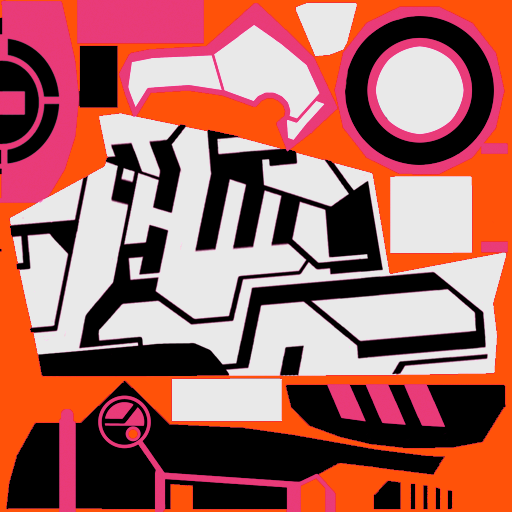
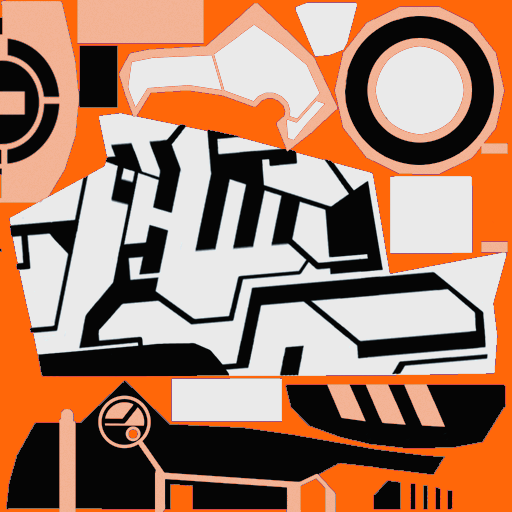
orange + red

diff --git a/templates/index.html b/templates/index.html
@@ -11,16 +11,12 @@
     		// stolen from three.js demo
 			var container;
 
-			var camera, scene, renderer, model;
+			var camera, scene, renderer, model, manager;
 
-			var mouseX = 0, mouseY = 0, loaded = false;
+			var mouseX = 0, mouseY = 0, loaded = false, color = 'blu';
 
 			var windowHalfX = window.innerWidth / 2;
 			var windowHalfY = window.innerHeight / 2;
-
-
-			init();
-			animate();
 
 
 			function init() {
@@ -44,7 +40,7 @@
 
 				// texture
 
-				var manager = new THREE.LoadingManager();
+				manager = new THREE.LoadingManager();
 				manager.onProgress = function ( item, loaded, total ) {
 
 					console.log( item, loaded, total );
@@ -53,34 +49,41 @@
 
 				var texture = new THREE.Texture();
 
-				var onProgress = function ( xhr ) {
-					if ( xhr.lengthComputable ) {
-						var percentComplete = xhr.loaded / xhr.total * 100;
-						console.log( Math.round(percentComplete, 2) + '% downloaded' );
-					}
-				};
 
-				var onError = function ( xhr ) {
-				};
+				// var loader = new THREE.ImageLoader( manager );
+				// loader.load( 'static/model/SLC_mat1_d.tga', function ( image ) {
 
+				// 	texture.image = image;
+				// 	texture.needsUpdate = true;
 
-				var loader = new THREE.ImageLoader( manager );
-				loader.load( 'static/model/SLC_mat1_d.tga', function ( image ) {
-
-					texture.image = image;
-					texture.needsUpdate = true;
-
-				} );
+				// } );
 
 				// model
+				loadModel('blu');
+				//
+
+				renderer = new THREE.WebGLRenderer();
+				renderer.setPixelRatio( window.devicePixelRatio );
+				renderer.setSize( window.innerWidth, window.innerHeight );
+				container.appendChild( renderer.domElement );
+
+				document.addEventListener( 'mousemove', onDocumentMouseMove, false );
+				document.addEventListener('click', onDocumentClick, false);
+				//
+
+				window.addEventListener( 'resize', onWindowResize, false );
+				console.log(scene);
+			}
+
+			var loadModel = function(color, f) {
 				var mtlloader = new THREE.MTLLoader(manager);
 				mtlloader.setPath('static/model/');
-				mtlloader.load('Super\ Light\ Cycle.mtl', function(materials) {
+				mtlloader.load('SLC_' + color + '.mtl', function(materials) {
 					materials.preload();
 					var objloader = new THREE.OBJLoader( manager );
 					objloader.setMaterials(materials);
 					objloader.setPath('static/model/');
-					objloader.load( 'Super\ Light\ Cycle.obj', function ( object ) {
+					objloader.load( 'SLC.obj', function ( object ) {
 						model = object;
 						loaded = true;
 						// object.traverse( function ( child ) {
@@ -100,24 +103,31 @@
 						object.scale.z = 30;
 						//object.position.y = -95;
 						scene.add( object );
-
+						if(f) f();
 					}, onProgress, onError );
 				}, onProgress, onError);
+			};
 
-				//
-
-				renderer = new THREE.WebGLRenderer();
-				renderer.setPixelRatio( window.devicePixelRatio );
-				renderer.setSize( window.innerWidth, window.innerHeight );
-				container.appendChild( renderer.domElement );
-
-				document.addEventListener( 'mousemove', onDocumentMouseMove, false );
-
-				//
-
-				window.addEventListener( 'resize', onWindowResize, false );
-				console.log(scene);
+			var onDocumentClick = function( e ) {
+				if(color == 'blu')
+					color = 'red';
+				else
+					color = 'blu';
+				oldModel = model;
+				loadModel(color, function() {
+					scene.remove(oldModel);
+				});
 			}
+
+			var onProgress = function ( xhr ) {
+				if ( xhr.lengthComputable ) {
+					var percentComplete = xhr.loaded / xhr.total * 100;
+					console.log( Math.round(percentComplete, 2) + '% downloaded' );
+				}
+			};
+
+			var onError = function ( xhr ) {
+			};
 
 			function onWindowResize() {
 
@@ -161,5 +171,9 @@
 				renderer.render( scene, camera );
 
 			}
+
+
+			init();
+			animate();
 
 	</script>
